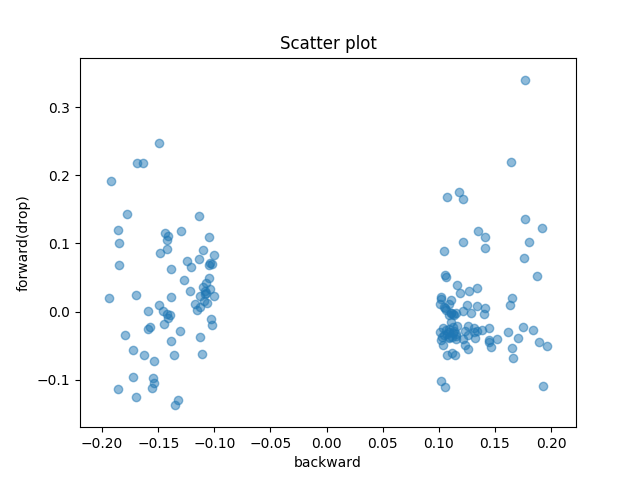
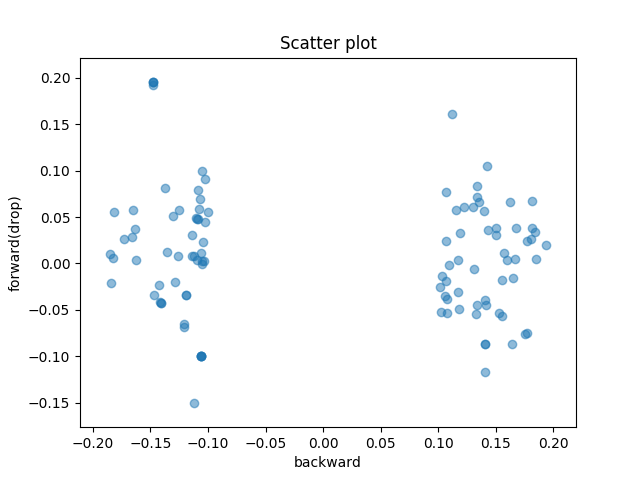
improvements and more investigation

diff --git a/analysis/strategy.py b/analysis/strategy.py
@@ -4,40 +4,44 @@ from util.market import MARKET_MODE
 
 _CHANGE_LOWER_THRESHOLD = 0.1
 _CHANGE_UPPER_THRESHOLD = 0.2
-_TIME_WINDOW_MINUTES = 10
+_TIME_WINDOW_BACKWARD_MINUTES = 10
 _TIME_WINDOW_FORWARD_MINUTES_DROP = 5
-_TIME_WINDOW_FORWARD_MINUTES_JUMP = 10
+_TIME_WINDOW_FORWARD_MINUTES_JUMP = 5
 
 class Parameters:
     def __init__(self):
         change_lower_threshold = _CHANGE_LOWER_THRESHOLD
         change_upper_threshold = _CHANGE_UPPER_THRESHOLD
-        time_window_minutes = _TIME_WINDOW_MINUTES
+        time_window_backward_minutes = _TIME_WINDOW_BACKWARD_MINUTES
         time_window_forward_drop_minutes = _TIME_WINDOW_FORWARD_MINUTES_DROP
         time_window_forward_jump_minutes = _TIME_WINDOW_FORWARD_MINUTES_JUMP
+        long_on_jump = True
         self.change_lower_threshold = change_lower_threshold
         self.change_upper_threshold = change_upper_threshold
-        self.time_window_minutes = time_window_minutes
+        self.time_window_backward_minutes = time_window_backward_minutes
         self.time_window_forward_drop_minutes = time_window_forward_drop_minutes
         self.time_window_forward_jump_minutes = time_window_forward_jump_minutes
+        self.long_on_jump = long_on_jump
 
     def __str__(self):
         return '''
-        change_lower_threshold: {change_lower_threshold}, 
-        change_upper_threshold: {change_upper_threshold},
-        time_window_minutes: {time_window_minutes}, 
-        time_window_forward_drop_minutes: {time_window_forward_drop_minutes},
-        time_window_forward_jump_minutes: {time_window_forward_jump_minutes}
+change_lower_threshold: {change_lower_threshold}, 
+change_upper_threshold: {change_upper_threshold},
+time_window_backward_minutes: {time_window_backward_minutes}, 
+time_window_forward_drop_minutes: {time_window_forward_drop_minutes},
+time_window_forward_jump_minutes: {time_window_forward_jump_minutes},
+long_on_jump: {long_on_jump}
         '''.format(
             change_lower_threshold=self.change_lower_threshold,
             change_upper_threshold=self.change_upper_threshold,
-            time_window_minutes=self.time_window_minutes,
+            time_window_backward_minutes=self.time_window_backward_minutes,
             time_window_forward_drop_minutes=self.time_window_forward_drop_minutes,
-            time_window_forward_jump_minutes=self.time_window_forward_jump_minutes
+            time_window_forward_jump_minutes=self.time_window_forward_jump_minutes,
+            long_on_jump=self.long_on_jump
         )
 
     def get_feature_backward(self):
-        return 'close_change_b_{w}_w{w}'.format(w=self.time_window_minutes)
+        return 'close_change_b_{w}_w{w}'.format(w=self.time_window_backward_minutes)
 
     def get_feature_forward_drop(self):
         return 'close_change_f_{w}_w{w}'.format(w=self.time_window_forward_drop_minutes)
@@ -46,17 +50,17 @@ class Parameters:
         return 'close_change_f_{w}_w{w}'.format(w=self.time_window_forward_jump_minutes)
 
 def pick_signal(dff, parameter):
-    time_window_minutes = parameter.time_window_minutes
+    time_window_backward_minutes = parameter.time_window_backward_minutes
     feature_backward = parameter.get_feature_backward()
-    feature_backward_2 = 'close_change_b_{window2}_w{window}'.format(window2=time_window_minutes * 2,
-                                                                     window=time_window_minutes)
+    feature_backward_2 = 'close_change_b_{window2}_w{window}'.format(window2=time_window_backward_minutes * 2,
+                                                                     window=time_window_backward_minutes)
     feature_forward_drop = parameter.get_feature_forward_drop()
 
-    df_signal = dff[dff[feature_backward] != 0][dff[feature_forward_drop] != 0]
+    df_signal = dff
 
     df_signal = df_signal[np.abs(df_signal[feature_backward]) > parameter.change_lower_threshold]
     df_signal = df_signal[np.abs(df_signal[feature_backward]) < parameter.change_upper_threshold]
-    df_signal = df_signal[np.abs(df_signal[feature_backward_2]) < 0.10]
+    # df_signal = df_signal[np.abs(df_signal[feature_backward_2]) < 0.10]
     # dff = dff[dff[feature_backward] < -0.20]
     # dff = dff[(dff[feature_backward] > 0.10) | (dff[feature_backward] < -0.10)]
 

diff --git a/analysis/evaluation.py b/analysis/evaluation.py
@@ -4,33 +4,36 @@ import numpy as np
 def print_evaluation(df_signal, param):
     feature_backward = param.get_feature_backward()
     feature_forward_drop = param.get_feature_forward_drop()
-    feature_forward_jump= param.get_feature_forward_jump()
+    feature_forward_jump = param.get_feature_forward_jump()
 
     print('')
-    print('time_window_minutes_backward:', param.time_window_minutes)
-    print('time_window_forward_drop_minutes:', param.time_window_forward_drop_minutes)
-    print('time_window_forward_jump_minutes:', param.time_window_forward_jump_minutes)
-    print('change_lower_threshold:', param.change_lower_threshold)
-    print('change_upper_threshold:', param.change_upper_threshold)
+    print(param)
 
     print('')
     print('number of events:', len(df_signal))
+    print('number of drop events:', len(df_signal[df_signal[feature_backward] < 0]))
+    print('number of jump events:', len(df_signal[df_signal[feature_backward] > 0]))
+    print('number of zero backward change over {w}'.format(w=param.time_window_backward_minutes), len(df_signal[df_signal[feature_backward] == 0]))
+    print('number of zero forward change over {w}'.format(w=param.time_window_forward_drop_minutes), len(df_signal[df_signal[feature_forward_drop] == 0]))
 
+    df_signal = df_signal[df_signal[feature_backward] != 0][df_signal[feature_forward_drop] != 0]
     profit_by_drop = df_signal[df_signal[feature_backward] < 0][feature_forward_drop].sum()
 
-    #profit_short = -df_signal[df_signal[feature_backward] > 0][feature_forward_jump].sum()
-    profit_by_jump = df_signal[df_signal[feature_backward] > 0][feature_forward_jump].sum()
+    jump_sign = 1 if param.long_on_jump else -1
+    profit_by_jump = jump_sign * df_signal[df_signal[feature_backward] > 0][feature_forward_jump].sum()
+    #profit_by_jump = df_signal[df_signal[feature_backward] > 0][feature_forward_jump].sum()
 
     profit = profit_by_drop + profit_by_jump
 
     print('')
-    print('projected return (drop and jump):', profit)
+    print('projected return longing drop:', profit_by_drop)
 
     print('')
-    print('projected return, longing drop:', profit_by_drop)
+    on_jump_str = 'longing' if param.long_on_jump else 'shorting'
+    print('projected return {on_jump_str} jump:'.format(on_jump_str=on_jump_str), profit_by_jump)
 
     print('')
-    print('projected return longing jump:', profit_by_jump)
+    print('projected return (drop and jump together):', profit)
 
     print('for drop')
     print(df_signal[[feature_backward, feature_forward_drop]].corr())

diff --git a/sandbox.py b/sandbox.py
@@ -13,26 +13,32 @@ if market_mode is MARKET_MODE.MARKET_KOR:
     filename = 'data/combined.2019-09-20.csv'
     df = pd.read_csv(filename, index_col=['datetime', 'symbol']).sort_index()
 elif market_mode is MARKET_MODE.MARKET_US:
-    filename = 'data/us.intraday.polygon.history.csv'
-    df = pd.read_csv(filename, index_col=['time','symbol']).sort_index()
+    #filename = 'data/us.intraday.polygon.history.csv'
+    #df = pd.read_csv(filename, index_col=['time','symbol']).sort_index()
+    filename = 'data/stream.minute.csv'
+    df = pd.read_csv(filename, index_col=['datetime','symbol']).sort_index()
 
 df = df.loc[~df.index.duplicated(keep='first')]
-dff_ = features.add_features(df, market_mode=market_mode)
+dff = features.add_features(df, market_mode=market_mode)
 
 param = strategy.Parameters()
-df_signal = strategy.pick_signal(dff_, param)
+param.time_window_forward_drop_minutes = 15
+param.time_window_forward_jump_minutes = 5
+param.long_on_jump = False
+param.change_lower_threshold = 0.10
+df_signal = strategy.pick_signal(dff, param)
 
 evaluation.print_evaluation(df_signal, param)
 
 
-image_file_name = 'images/time_window_minutes_{time_window_minutes}_{change_lower_threshold}_drop.png'.format(time_window_minutes=param.time_window_minutes, change_lower_threshold=param.change_lower_threshold)
+image_file_name = 'images/time_window_backward_minutes_{time_window_backward_minutes}_{change_lower_threshold}_drop.png'.format(time_window_backward_minutes=param.time_window_backward_minutes, change_lower_threshold=param.change_lower_threshold)
 plots.scatter.do_plot(
     df_signal[param.get_feature_backward()], df_signal[param.get_feature_forward_drop()],
     xlabel='backward',
     ylabel='forward(drop)',
     image_file_name=image_file_name)
 
-image_file_name = 'images/time_window_minutes_{time_window_minutes}_{change_lower_threshold}_jump.png'.format(time_window_minutes=param.time_window_minutes, change_lower_threshold=param.change_lower_threshold)
+image_file_name = 'images/time_window_backward_minutes_{time_window_backward_minutes}_{change_lower_threshold}_jump.png'.format(time_window_backward_minutes=param.time_window_backward_minutes, change_lower_threshold=param.change_lower_threshold)
 plots.scatter.do_plot(
     df_signal[param.get_feature_backward()], df_signal[param.get_feature_forward_jump()],
     xlabel='backward',

diff --git a/analysis/features.py b/analysis/features.py
@@ -27,11 +27,10 @@ def add_features(df, market_mode=MARKET_MODE.MARKET_KOR):
         df['close_f_{i}'.format(i=i)] = df.groupby(level=1).shift(-1 * _diff_sign * i).close
         df['volume_f_{i}'.format(i=i)] = df.groupby(level=1).shift(-1 * _diff_sign * i).volume
 
-    for window_size in range(5, 16, 5):
-        for i in range(window_size, 36, 5):
-            close_cur = df['close_b_{i}'.format(i=i-window_size)]
-            close_prev = df['close_b_{i}'.format(i=i)]
-            df['close_change_b_{i}_w{window_size}'.format(i=i, window_size=window_size)] = (close_cur - close_prev) / close_prev
+    for window_size in range(5, 21, 5):
+        close_cur = df['close_b_{i}'.format(i=0)]
+        close_prev = df['close_b_{i}'.format(i=window_size)]
+        df['close_change_b_{w}_w{w}'.format(w=window_size)] = (close_cur - close_prev) / close_prev
 
         close_cur = df['close_f_{i}'.format(i=window_size)]
         close_prev = df['close_f_0']

diff --git a/plots/scatter.py b/plots/scatter.py
@@ -11,6 +11,7 @@ def do_plot(df_1, df_2, xlabel='df1', ylabel='df2', image_file_name=None):
     plt.title('Scatter plot')
     plt.ylabel(ylabel)
     plt.xlabel(xlabel)
+    plt.ylim([-0.15, 0.15])
     image_file_name = image_file_name or "images/scatter.png"
     plt.savefig(image_file_name)
     plt.show()
